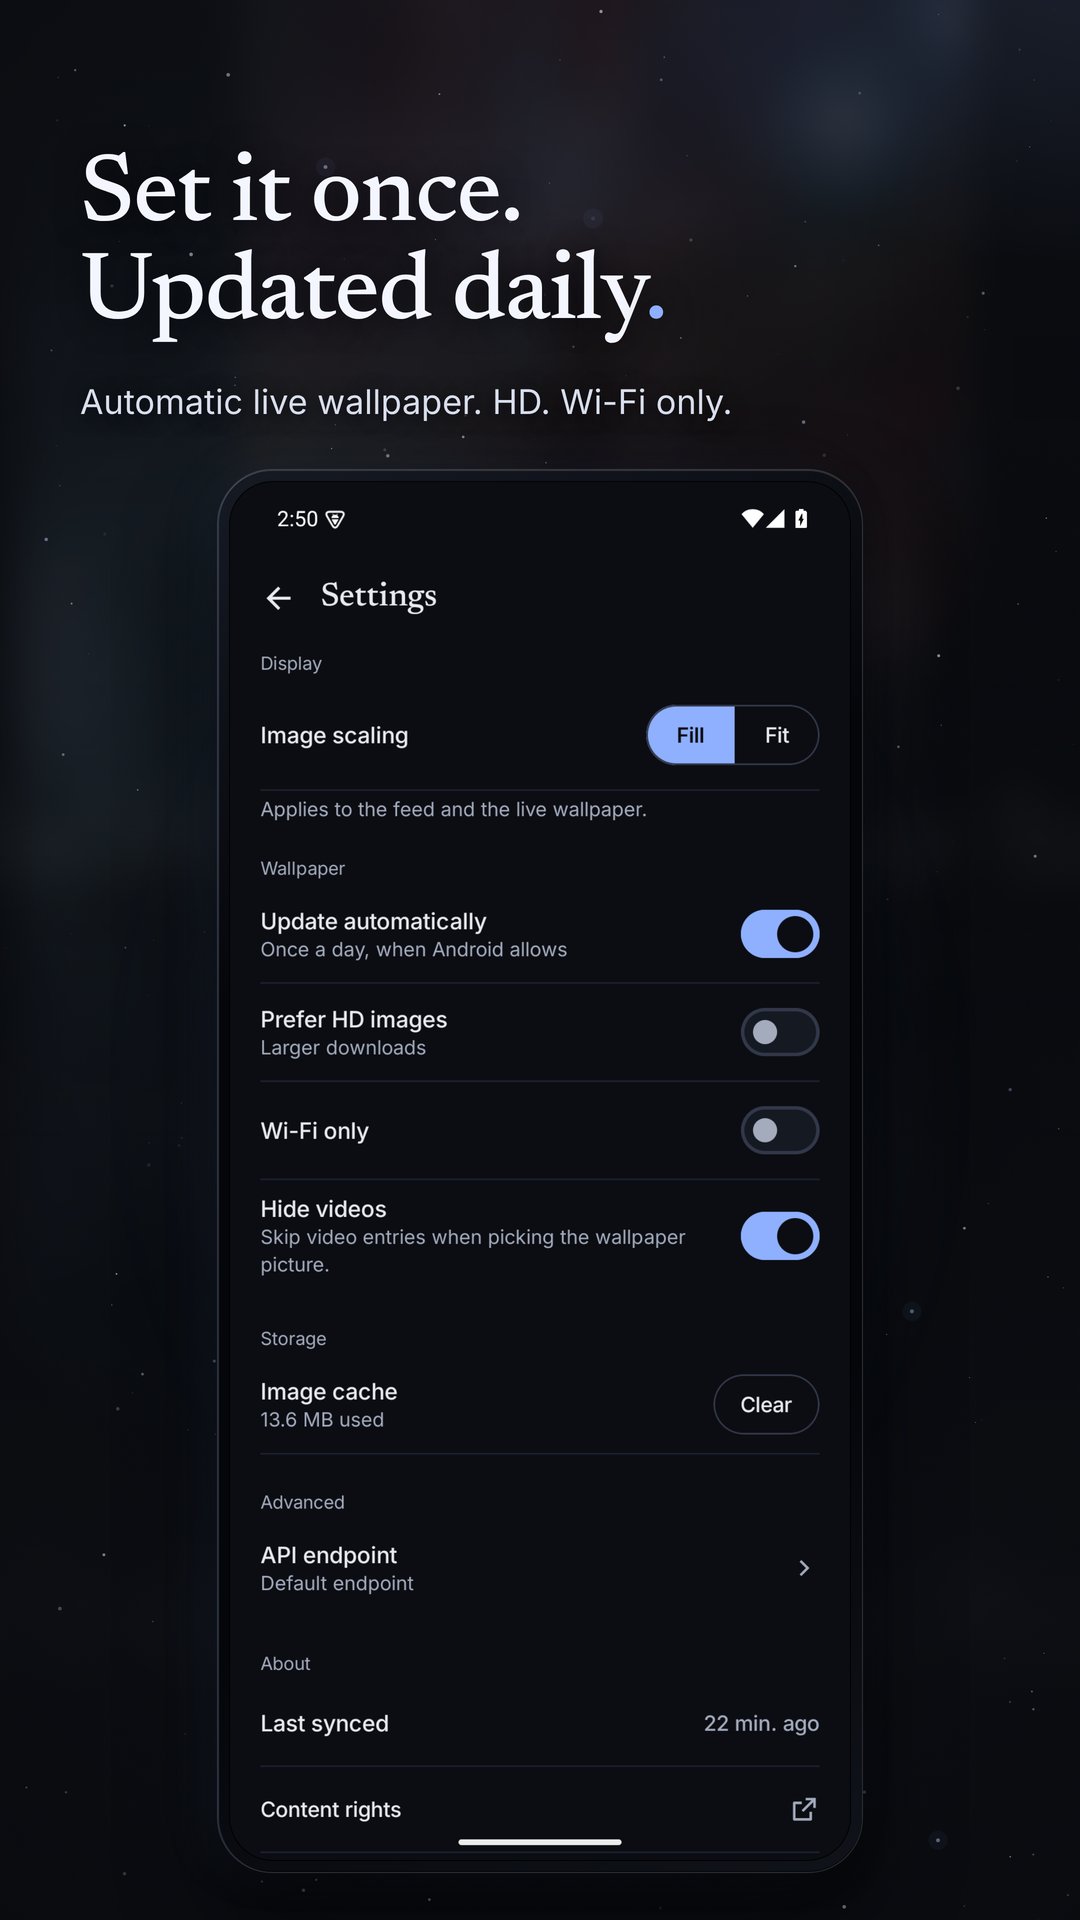
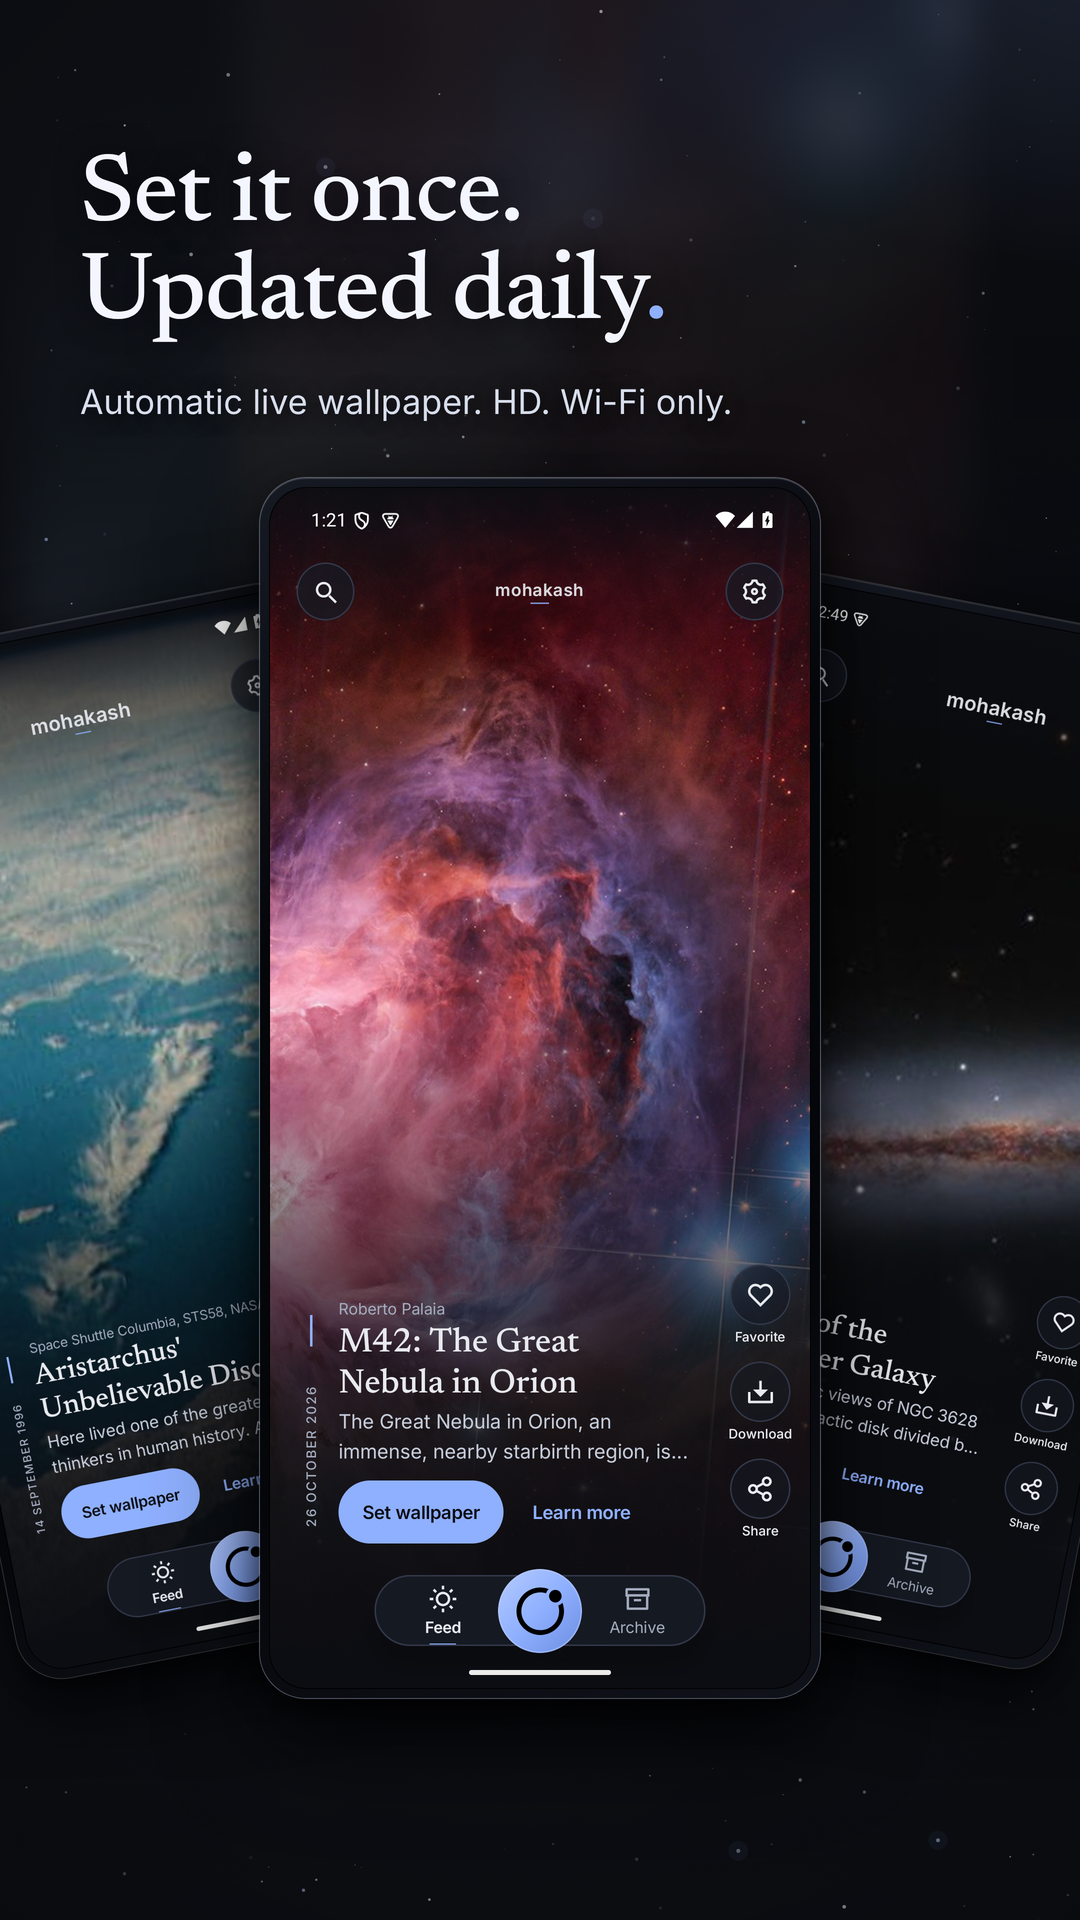
feat(store): make screenshot 02 a three-phone wallpaper showcase

diff --git a/store-assets/README.md b/store-assets/README.md
@@ -14,7 +14,7 @@ Campaign line: **“New wallpaper, every day.”**
 | # | Install driver | Headline | Support | Screen |
 |---|----------------|----------|---------|--------|
 | 01 | Fresh wallpaper daily | **New wallpaper, every day.** | Fresh astronomy, ready for your home screen. | *M42: The Great Nebula in Orion* |
-| 02 | Set-and-forget live wallpaper | **Set it once. Updated daily.** | Automatic live wallpaper. HD. Wi-Fi only. | Wallpaper settings |
+| 02 | Set-and-forget live wallpaper | **Set it once. Updated daily.** | Automatic live wallpaper. HD. Wi-Fi only. | Three-phone wallpaper showcase |
 | 03 | Discovery | **Random wallpapers, at your fingertips.** | One tap. A surprise from the whole archive. | Random picker over *Comet NEAT* |
 | 04 | Keep offline | **Keep the ones you love.** | Save favourites. Read them offline. | Archive and Saved, 2024 filter |
 | 05 | Full-quality downloads | **Full resolution. Save or set it.** | The original image, one tap away. | *Asperitas Clouds* entry |
@@ -45,6 +45,8 @@ or swap the hero frame for a public-domain APOD image and re-render.
 - Backgrounds are quieter than the first cut: 260 stars max, no orbit/registration marks, reduced crest wash. The phone is 620 px wide so the UI reads at small sizes.
 - Campaign plates deliberately omit a separate wordmark/folio/kicker so the
   real app screenshot is the interface; the app's own in-screen wordmark stays.
+- Plate 02 is a three-phone showcase: the comet, M42 and galaxy screens sit
+  behind each other like a wallpaper lineup, with the M42 feed as the hero.
 - Device frames are intentionally understated; the app screenshot inside is a
   real 1080 × 2400 capture, uniformly scaled (never stretched).
 - Feature graphic keeps critical type well inside the central 80% safe area;
